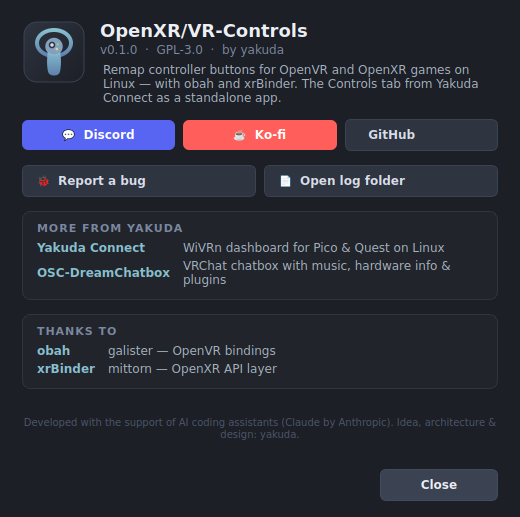
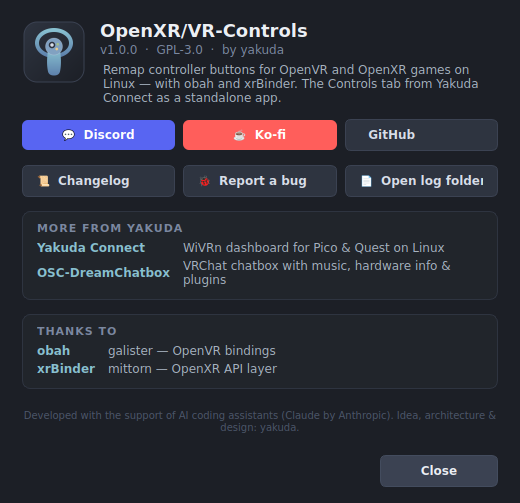
v1.0.0: Version 1.0.0, Changelog in der App, README ueberarbeitet
Alles auf 1.0.0 (version.py, PKGBUILD, .SRCINFO, Badge, CHANGELOG/HIGHLIGHTS).
Changelog im Info-Fenster (liest CHANGELOG.md) und in der README verlinkt.
README: Installationswege je Distro (curl-Installer fuer Fedora/Debian/
openSUSE, Update/Deinstallation), OpenVR/OpenXR-Screenshots nebeneinander.

diff --git a/ui/changelog_dialog.py b/ui/changelog_dialog.py
@@ -1,0 +1,60 @@
+#!/usr/bin/env python3
+"""
+ui/changelog_dialog.py — CHANGELOG.md in der App anzeigen (Info → Changelog)
+===========================================================================
+Liest die mitgelieferte CHANGELOG.md (liegt in AppImage, AUR-Paket und
+Quellcode neben starter.py). Fehlt sie, gibt es nur den GitHub-Link.
+"""
+import os
+
+from PySide6.QtCore import Qt, QUrl
+from PySide6.QtGui import QDesktopServices
+from PySide6.QtWidgets import QDialog, QHBoxLayout, QPushButton, QTextBrowser, QVBoxLayout
+
+import links
+from translations import tr
+
+CHANGELOG_PATH = os.path.join(os.path.dirname(os.path.dirname(os.path.abspath(__file__))),
+                              "CHANGELOG.md")
+
+
+def read_changelog(path=CHANGELOG_PATH):
+    """Inhalt der CHANGELOG.md oder '' (fehlt / nicht lesbar)."""
+    try:
+        with open(path, encoding="utf-8") as fh:
+            return fh.read()
+    except OSError:
+        return ""
+
+
+class ChangelogDialog(QDialog):
+    def __init__(self, parent=None, text=None):
+        super().__init__(parent)
+        self.setWindowTitle(tr("changelog_title"))
+        self.resize(760, 620)
+        root = QVBoxLayout(self)
+        root.setContentsMargins(16, 14, 16, 12)
+
+        self.view = QTextBrowser()
+        self.view.setOpenExternalLinks(True)
+        self.view.setStyleSheet("QTextBrowser { background:#1c1f26; color:#d8dee9; "
+                                "border:1px solid #2e3440; border-radius:6px; padding:10px; }")
+        self.view.document().setDefaultStyleSheet("a { color:#88c0d0; }")
+        text = read_changelog() if text is None else text
+        if text:
+            self.view.setMarkdown(text)
+        else:
+            self.view.setMarkdown(tr("changelog_missing").format(url=links.CHANGELOG))
+        root.addWidget(self.view, 1)
+
+        row = QHBoxLayout()
+        web = QPushButton(tr("changelog_online"))
+        web.setCursor(Qt.PointingHandCursor)
+        web.clicked.connect(lambda: QDesktopServices.openUrl(QUrl(links.CHANGELOG)))
+        row.addWidget(web)
+        row.addStretch()
+        close = QPushButton(tr("about_close"))
+        close.setCursor(Qt.PointingHandCursor)
+        close.clicked.connect(self.accept)
+        row.addWidget(close)
+        root.addLayout(row)

diff --git a/ui/about_dialog.py b/ui/about_dialog.py
@@ -89,7 +89,8 @@ class AboutDialog(QDialog):
         # ---- Hilfe
         help_row = QHBoxLayout()
         help_row.setSpacing(8)
-        for text, fn in ((tr("about_report_bug"), lambda: _open(links.ISSUES)),
+        for text, fn in ((tr("about_changelog"), self._show_changelog),
+                         (tr("about_report_bug"), lambda: _open(links.ISSUES)),
                          (tr("about_open_log"),
                           lambda: _open(QUrl.fromLocalFile(paths.cache_root()).toString()))):
             b = QPushButton(text)
@@ -124,6 +125,10 @@ class AboutDialog(QDialog):
         row.addStretch()
         row.addWidget(close)
         root.addLayout(row)
+
+    def _show_changelog(self):
+        from ui.changelog_dialog import ChangelogDialog
+        ChangelogDialog(self).exec()
 
     def _card(self, title, entries):
         card = QFrame()

diff --git a/tests/test_changelog.py b/tests/test_changelog.py
@@ -1,0 +1,24 @@
+#!/usr/bin/env python3
+"""tests/test_changelog.py — Changelog im Info-Fenster."""
+import pathlib
+import sys
+
+ROOT = pathlib.Path(__file__).resolve().parent.parent
+sys.path.insert(0, str(ROOT / "core"))
+sys.path.insert(0, str(ROOT))
+
+import version  # noqa: E402
+
+
+def test_changelog_file_has_current_version():
+    from ui.changelog_dialog import read_changelog
+    text = read_changelog()
+    assert f"v{version.VERSION}" in text
+
+
+def test_changelog_dialog_shows_text(qapp):
+    from ui.changelog_dialog import ChangelogDialog
+    dlg = ChangelogDialog(None, text="### v9.9.9\n- test")
+    assert "v9.9.9" in dlg.view.toPlainText()
+    dlg2 = ChangelogDialog(None, text="")
+    assert "github.com" in dlg2.view.toPlainText()

diff --git a/core/links.py b/core/links.py
@@ -4,6 +4,8 @@
 GITHUB_ORG = "https://github.com/yakuda-stack"
 REPO = f"{GITHUB_ORG}/OpenXR-VR-Control"
 ISSUES = f"{REPO}/issues"
+CHANGELOG = f"{REPO}/blob/main/CHANGELOG.md"
+RELEASES = f"{REPO}/releases"
 DISCORD = "https://discord.gg/ShNKvvZu74"
 KOFI = "https://ko-fi.com/yakuda_"
 

diff --git a/core/version.py b/core/version.py
@@ -1,4 +1,4 @@
 #!/usr/bin/env python3
 """core/version.py — einzige Quelle der Versionsnummer."""
-VERSION = "0.1.0"
+VERSION = "1.0.0"
 APP_VERSION = f"v{VERSION}"

diff --git a/README.md b/README.md
@@ -12,17 +12,80 @@
 <p align="center">
   <a href="https://discord.gg/ShNKvvZu74"><img src="https://img.shields.io/badge/Discord-Join-5865F2?style=for-the-badge&logo=discord&logoColor=white" alt="Discord"/></a>
   <a href="https://ko-fi.com/yakuda_"><img src="https://img.shields.io/badge/Ko--fi-Support-FF5E5B?style=for-the-badge&logo=ko-fi&logoColor=white" alt="Ko-fi"/></a>
-  <img src="https://img.shields.io/badge/Version-v0.1.0-81a1c1?style=for-the-badge" alt="Version"/>
+  <a href="https://github.com/yakuda-stack/OpenXR-VR-Control/releases"><img src="https://img.shields.io/badge/Version-v1.0.0-81a1c1?style=for-the-badge" alt="Version"/></a>
+  <a href="CHANGELOG.md"><img src="https://img.shields.io/badge/Changelog-read-a3be8c?style=for-the-badge" alt="Changelog"/></a>
   <img src="https://img.shields.io/badge/License-GPL--3.0-4c566a?style=for-the-badge" alt="License"/>
 </p>
 
 <p align="center">
-  <a href="#-english">English</a> · <a href="#-deutsch">Deutsch</a>
+  <a href="#-install">Install</a> ·
+  <a href="#-english">English</a> ·
+  <a href="#-deutsch">Deutsch</a> ·
+  <a href="CHANGELOG.md">Changelog</a>
 </p>
 
-<p align="center">
-  <img src="assets/screenshot_main.png" alt="Controller view" width="820"/>
-</p>
+<table>
+  <tr>
+    <td align="center" width="50%"><b>OpenVR game (obah)</b><br><img src="assets/openvrcontrol.png" alt="OpenVR game" width="100%"/></td>
+    <td align="center" width="50%"><b>OpenXR game (xrBinder)</b><br><img src="assets/openxrcontrol.png" alt="OpenXR game" width="100%"/></td>
+  </tr>
+</table>
+
+---
+
+## 📦 Install
+
+| Your system | How |
+|---|---|
+| **Arch · CachyOS · EndeavourOS · Manjaro** | AUR: `yay -S openxr-vr-control` |
+| **Fedora · Nobara** | curl installer (below) |
+| **Debian · Ubuntu · Linux Mint · Pop!_OS** | curl installer (below) |
+| **openSUSE** | curl installer (below) |
+| **Any distro · Bazzite · SteamOS** | AppImage from the [Releases](https://github.com/yakuda-stack/OpenXR-VR-Control/releases) |
+
+### curl installer (Fedora, Debian/Ubuntu, openSUSE — and Arch too)
+
+```bash
+bash <(curl -s https://raw.githubusercontent.com/yakuda-stack/OpenXR-VR-Control/main/install.sh)
+```
+
+- Installs PySide6 from your distro (or into its own venv if your distro has none) and puts the app in `/opt/openxr-vr-control`.
+- Adds a menu entry *OpenXR/VR-Controls* and the command `openxr-vr-control`.
+- **Update:** simply run the same command again. Your settings in `~/.config/openxr-vr-control` stay untouched.
+
+<details>
+<summary>Uninstall (curl installer)</summary>
+
+```bash
+sudo rm -rf /opt/openxr-vr-control /opt/openxr-vr-control-venv \
+            /usr/local/bin/openxr-vr-control \
+            /usr/share/applications/openxr-vr-control.desktop \
+            /usr/share/icons/hicolor/scalable/apps/openxr-vr-control.svg \
+            /usr/share/icons/hicolor/512x512/apps/openxr-vr-control.png
+# optional: your settings
+rm -rf ~/.config/openxr-vr-control ~/.cache/openxr-vr-control
+```
+</details>
+
+### AppImage
+
+```bash
+chmod +x openxr-vr-control-*-x86_64.AppImage
+./openxr-vr-control-*-x86_64.AppImage
+```
+Works with fuse2 and fuse3. No FUSE at all? Add `--appimage-extract-and-run`. Delta updates via AppImageUpdate / Gear Lever (`.zsync`).
+
+### From source
+
+```bash
+git clone https://github.com/yakuda-stack/OpenXR-VR-Control.git
+cd OpenXR-VR-Control
+sudo pacman -S pyside6          # Fedora: sudo dnf install python3-pyside6
+python3 starter.py
+```
+
+> **For remapping you'll also need** — the app installs these itself when you switch them on:
+> **obah** (OpenVR games, via Cargo or yay/paru) and **xrBinder** (OpenXR games, needs `git`, `cmake` and a C++ compiler).
 
 ---
 
@@ -43,34 +106,21 @@ For everyone playing VR on Linux **without** a Pico or Quest — Valve Index, HT
 | ➕ **Add games yourself** | *Add Steam game* for titles that aren't detected as VR, *Add local game* for games without Steam (itch.io, GOG, your own builds). |
 | 🔧 **Installs its own tools** | obah and xrBinder via Cargo or yay/paru, in a visible terminal so you can follow every step. |
 | 🤝 **Works alongside Yakuda Connect** | If Yakuda Connect already built xrBinder or obah, that installation is reused. |
+| 📜 **Changelog in the app** | **ⓘ Info → Changelog** shows what's new. |
 | 🌍 **English / Deutsch** | Follows your system language and can be switched at the top right. |
 
-<table>
-  <tr>
-    <td align="center"><b>OpenVR game (obah)</b><br><img src="assets/openvrcontrol.png" alt="OpenVR" width="420"/></td>
-    <td align="center"><b>OpenXR game (xrBinder)</b><br><img src="assets/openxrcontrol.png" alt="OpenXR" width="420"/></td>
-  </tr>
-</table>
-
-<p align="center">
-  <img src="assets/screenshot_deadzone.png" alt="Deadzone" width="560"/>
-</p>
-
-> **Note on the OpenVR deadzone:** it is saved as `deadzone_pct` in the binding file. xrizer doesn't evaluate that value yet. For xrizer games, switch on xrBinder and use the deadzone of the game's `· OpenXR` entry instead.
-
-### 🚀 Getting started
-
-| | |
-|---|---|
-| **AUR** (Arch / CachyOS) | `yay -S openxr-vr-control` |
-| **AppImage** (any distro) | Download from [Releases](https://github.com/yakuda-stack/OpenXR-VR-Control/releases), `chmod +x`, start |
-| **Installer** (Arch, Fedora, Debian/Ubuntu, openSUSE) | `bash <(curl -s https://raw.githubusercontent.com/yakuda-stack/OpenXR-VR-Control/main/install.sh)` |
-| **From source** | `sudo pacman -S pyside6` (or `pip install -r requirements.txt`), then `python3 starter.py` |
+### 🚀 How to use
 
 1. Switch on **obah** (for OpenVR games) and/or **xrBinder** (for OpenXR games). If a tool is missing, the app asks how to install it.
 2. Under **① Game**, pick your game. Missing? Use **+ Add Steam game** / **+ Add local game**.
 3. Under **② Controller**, pick your controller and under **③ Load bindings**, pick where to start from.
 4. Click the buttons you want to change, then press **Save**.
+
+<p align="center">
+  <img src="assets/screenshot_deadzone.png" alt="Deadzone" width="560"/>
+</p>
+
+> **Deadzone in OpenVR games:** saved as `deadzone_pct` in the binding file. xrizer doesn't evaluate that value yet — for xrizer games switch on xrBinder and use the deadzone of the game's `· OpenXR` entry instead.
 
 ### 📁 Where things are stored
 
@@ -87,7 +137,7 @@ QT_QPA_PLATFORM=offscreen python3 -m pytest -q tests
 ruff check .
 ```
 
-How the code is organised (and which parts come from Yakuda Connect) is described in [`ARCHITEKTUR.md`](ARCHITEKTUR.md).
+Code layout (and which parts come from Yakuda Connect): [`ARCHITEKTUR.md`](ARCHITEKTUR.md) · What changed: [`CHANGELOG.md`](CHANGELOG.md)
 
 ---
 
@@ -97,22 +147,28 @@ How the code is organised (and which parts come from Yakuda Connect) is describe
 
 Für alle, die unter Linux VR spielen, aber **keine** Pico oder Quest haben: Valve Index, HTC Vive und andere Headsets unter **SteamVR** oder **Monado**. Es ist der Controls-Tab aus [Yakuda Connect](https://github.com/yakuda-stack/yakuda-connect) als kleines eigenes Programm.
 
+### 📦 Installieren
+
+- **Arch / CachyOS:** `yay -S openxr-vr-control`
+- **Fedora, Debian/Ubuntu/Mint, openSUSE:**
+  ```bash
+  bash <(curl -s https://raw.githubusercontent.com/yakuda-stack/OpenXR-VR-Control/main/install.sh)
+  ```
+  Installiert PySide6 und legt die App nach `/opt/openxr-vr-control`. **Update:** denselben Befehl nochmal ausführen, deine Einstellungen bleiben erhalten.
+- **Jede Distro, Bazzite, SteamOS:** AppImage aus den [Releases](https://github.com/yakuda-stack/OpenXR-VR-Control/releases)
+
 ### ✨ Funktionen
 
-- 🎮 **Eine Controller-Ansicht:** beide Controller nebeneinander, je Taste eine Karte. Klick auf eine Karte, um die Belegung zu ändern.
+- 🎮 **Eine Controller-Ansicht:** beide Controller nebeneinander, je Taste eine Karte. Klick auf eine Karte ändert die Belegung.
 - 🕹 **OpenVR-Spiele** über obah (xrizer, VapoR, OpenComposite), 🧩 **OpenXR-Spiele** über xrBinder.
 - ◎ **Deadzone gegen Stick-Drift**, bei OpenXR- und OpenVR-Spielen.
 - ➕ **Steam-Spiel / Lokales Spiel hinzufügen**, wenn ein Spiel nicht automatisch erkannt wird.
 - 🔧 **Installiert obah und xrBinder selbst** (Cargo oder yay/paru).
 - 🤝 **Nutzt vorhandene Installationen aus Yakuda Connect mit.**
+- 📜 **Changelog in der App:** ⓘ Info → Changelog.
 - 🌍 **Deutsch / Englisch**
 
-### 🚀 Start
-
-- **AUR:** `yay -S openxr-vr-control`
-- **AppImage:** aus den [Releases](https://github.com/yakuda-stack/OpenXR-VR-Control/releases) laden, ausführbar machen, starten
-- **Installer:** `bash <(curl -s https://raw.githubusercontent.com/yakuda-stack/OpenXR-VR-Control/main/install.sh)`
-- **Aus dem Quellcode:** `sudo pacman -S pyside6`, dann `python3 starter.py`
+### 🚀 So geht's
 
 1. **obah** und/oder **xrBinder** einschalten. Fehlt ein Werkzeug, fragt die App, wie es installiert werden soll.
 2. Unter **① Spiel** das Spiel wählen. Fehlt es, über **+ Steam-Spiel** oder **+ Lokales Spiel** hinzufügen.
@@ -120,6 +176,8 @@ Für alle, die unter Linux VR spielen, aber **keine** Pico oder Quest haben: Val
 4. Tasten anklicken, belegen und **Speichern**.
 
 > Die Deadzone bei OpenVR-Spielen wird als `deadzone_pct` gespeichert. xrizer wertet diesen Wert noch nicht aus. Bei xrizer-Spielen deshalb xrBinder einschalten und die Deadzone im `· OpenXR`-Eintrag einstellen.
+
+Was sich geändert hat: [CHANGELOG.md](CHANGELOG.md)
 
 ---
 

diff --git a/CHANGELOG.md b/CHANGELOG.md
@@ -2,7 +2,7 @@
 
 Ausführliche Änderungen je Version (DE + EN). Kurzfassung für Nutzer: [HIGHLIGHTS.md](HIGHLIGHTS.md).
 
-### 🚀 v0.1.0 — 2026-09-24
+### 🚀 v1.0.0 — 2026-09-24
 
 **🇩🇪 Erste Version**
 - Controls-Tab aus Yakuda Connect v1.3.7 als eigenes Programm: obah (OpenVR) und xrBinder (OpenXR) in einer Controller-Ansicht.
@@ -12,6 +12,8 @@ Ausführliche Änderungen je Version (DE + EN). Kurzfassung für Nutzer: [HIGHLI
 - Nutzt vorhandene xrBinder-/obah-Installationen aus Yakuda Connect mit (gemeinsame Einstellungen je Spiel).
 - Info-Fenster (Discord, Ko-fi, GitHub, Log-Ordner) und Fußleiste „Mehr von yakuda“.
 - Eigenes Icon, DE/EN, Einstellungen unter `~/.config/openxr-vr-control/`.
+- Changelog direkt in der App (ⓘ Info → 📜 Changelog).
+- Veröffentlicht als AUR-Paket (`openxr-vr-control`), AppImage (mit Delta-Updates über `.zsync`) und curl-Installer für Fedora, Debian/Ubuntu und openSUSE.
 
 **🇬🇧 First release**
 - The Controls tab from Yakuda Connect v1.3.7 as a standalone app: obah (OpenVR) and xrBinder (OpenXR) in one controller view.
@@ -21,3 +23,5 @@ Ausführliche Änderungen je Version (DE + EN). Kurzfassung für Nutzer: [HIGHLI
 - Reuses existing xrBinder/obah installations from Yakuda Connect (shared per-game settings).
 - Info window (Discord, Ko-fi, GitHub, log folder) and a "More from yakuda" footer.
 - Own icon, DE/EN, settings in `~/.config/openxr-vr-control/`.
+- Changelog right in the app (ⓘ Info → 📜 Changelog).
+- Published as AUR package (`openxr-vr-control`), AppImage (delta updates via `.zsync`) and a curl installer for Fedora, Debian/Ubuntu and openSUSE.

diff --git a/ARCHITEKTUR.md b/ARCHITEKTUR.md
@@ -1,6 +1,6 @@
 # Architektur – OpenXR/VR-Controls
 
-Stand: v0.1.0. Der Controls-Code ist aus **Yakuda Connect v1.3.7** kopiert.
+Stand: v1.0.0. Der Controls-Code ist aus **Yakuda Connect v1.3.7** kopiert.
 Regel: Änderungen zuerst in Yakuda Connect, dann hierher nachziehen.
 
 ```

diff --git a/HIGHLIGHTS.md b/HIGHLIGHTS.md
@@ -1,6 +1,6 @@
 # Highlights — OpenXR/VR-Controls
 
-### 🚀 v0.1.0 — 2026-09-24
+### 🚀 v1.0.0 — 2026-09-24
 
 ---
 
